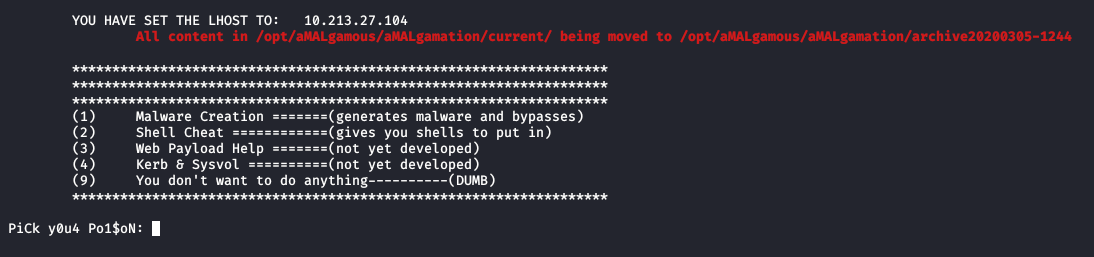
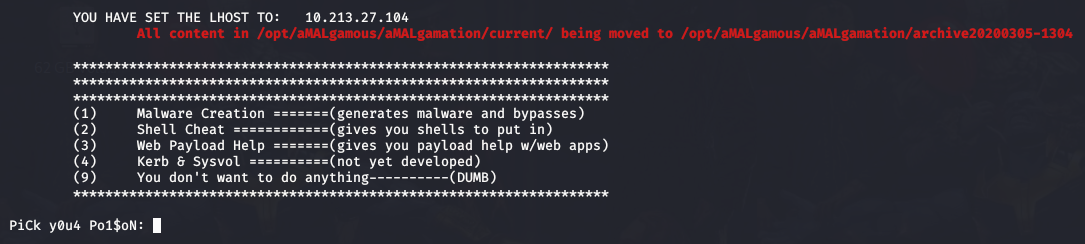
Fixing a few issues

diff --git a/aMALgamous.py b/aMALgamous.py
@@ -1185,7 +1185,7 @@ def main():
     print("\t*******************************************************************")
     print("\t(1)\tMalware Creation =======(generates malware and bypasses)")
     print("\t(2)\tShell Cheat ============(gives you shells to put in)")
-    print("\t(3)\tWeb Payload Help =======(not yet developed)")
+    print("\t(3)\tWeb Payload Help =======(gives you payload help w/web apps)")
     print("\t(4)\tKerb & Sysvol ==========(not yet developed)")
     print("\t(9)\tYou don't want to do anything----------(DUMB)")
     print("\t*******************************************************************")
